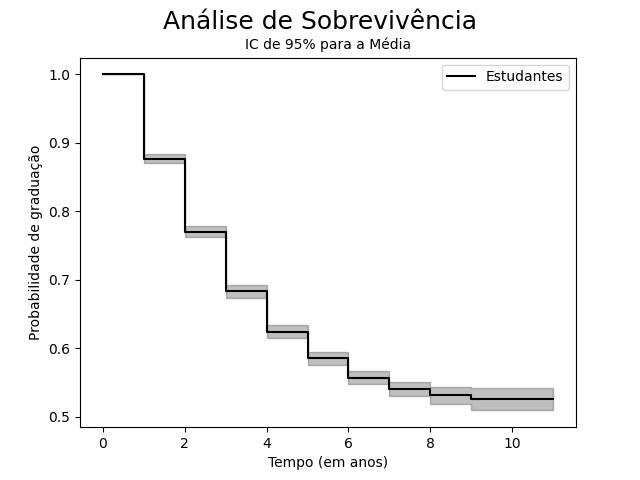
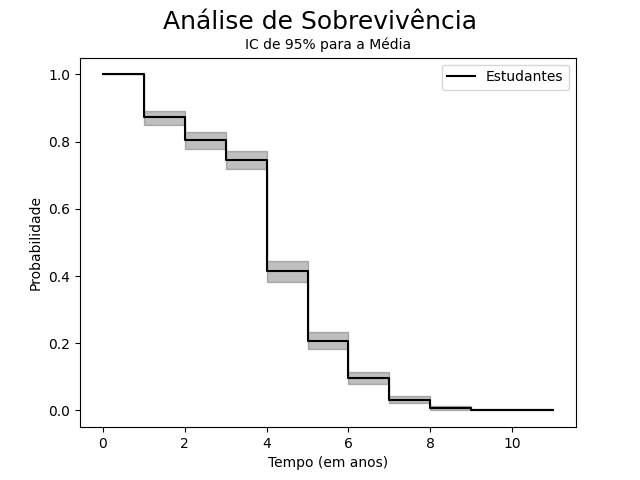
Alterações gráficos

diff --git a/tests/testKMF.py b/tests/testKMF.py
@@ -3,108 +3,113 @@ from lifelines import KaplanMeierFitter, CoxPHFitter, NelsonAalenFitter
 from lifelines.statistics import logrank_test
 from matplotlib import pyplot as plt
 
-
-times = [5, 6, 7, 2, 4, 4, 3, 6, 4, 7]
-event_g = [1, 1, 1, 0, 0, 0, 0, 1, 0, 1]
-event_e = [0, 0, 0, 1, 1, 1, 1, 0, 1, 0]
-
-# times = [5, 6, 7, 2, 4, 4, 3, 6, 4, 7, 4, 4]
-# event_g = [1, 1, 1, 0, 0, 0, 0, 1, 0, 1, 1, 1]
-# event_e = [0, 0, 0, 1, 1, 1, 1, 0, 1, 0, 0, 0]
+#total = 10
+#gradua = 4
+#evade = 6
 #
-# times = [5, 6, 7, 2, 4, 4, 3, 6, 4, 7, 8, 10]
-# event_g = [1, 1, 1, 0, 0, 0, 0, 1, 0, 1, 1, 1]
-# event_e = [0, 0, 0, 1, 1, 1, 1, 0, 1, 0, 0, 0]
+# times = [5, 6, 7, 2, 4, 4, 3, 5, 4, 7]
+# event_g = [0, 1, 1, 0, 0, 0, 0, 1, 0, 1]
+# event_e = [1, 0, 0, 1, 1, 1, 1, 0, 1, 0]
 #
-# times = [5, 6, 7, 2, 4, 4, 3, 6, 4, 7, 8, 10]
-# event_g = [1, 1, 1, 0, 0, 0, 0, 1, 0, 1, 0, 0]
-# event_e = [0, 0, 0, 1, 1, 1, 1, 0, 1, 0, 1, 1]
+# times = [5, 6, 7, 2, 4, 4, 3, 5, 4, 7, 4, 4]
+# event_g = [0, 1, 1, 0, 0, 0, 0, 1, 0, 1, 1, 1]
+# event_e = [1, 0, 0, 1, 1, 1, 1, 0, 1, 0, 0, 0]
+#
+# times = [5, 6, 7, 2, 4, 4, 3, 5, 4, 7, 8, 10]
+# event_g = [0, 1, 1, 0, 0, 0, 0, 1, 0, 1, 1, 1]
+# event_e = [1, 0, 0, 1, 1, 1, 1, 0, 1, 0, 0, 0]
 
-
-# kmf = KaplanMeierFitter()
-# kmf.fit(times, event_g)
-# kmf.plot_survival_function(ci_show=False)
-# plt.show()
-# kmf.fit(times, event_e)
-# kmf.plot_survival_function(ci_show=False)
-# plt.show()
-# kmf.plot_cumulative_density(ci_show=False)
-# plt.show()
-
-
-
-
-times = [5, 6, 7, 2, 4, 4, 3, 6, 4, 7]
-event_e = [0, 0, 0, 1, 1, 1, 1, 0, 1, 0]
-times1 = [1, 6, 5, 6, 1, 4, 3, 5, 2, 7]
-event_e1 = [1, 0, 1, 0, 1, 1, 1, 0, 1, 0]
+times = [5, 6, 7, 2, 4, 4, 3, 5, 4, 7, 8, 10]
+event_g = [0, 1, 1, 0, 0, 0, 0, 1, 0, 1, 0, 0]
+event_e = [1, 0, 0, 1, 1, 1, 1, 0, 1, 0, 1, 1]
 
 kmf = KaplanMeierFitter()
 kmf.fit(times, event_e)
 kmf.plot_survival_function(ci_show=False)
-# kmf.fit(times1, event_e1)
+plt.show()
+kmf.plot_cumulative_density(ci_show=False)
+plt.show()
+kmf.fit(times, event_g)
+kmf.plot_survival_function(ci_show=False)
+plt.show()
+kmf.plot_cumulative_density(ci_show=False)
+plt.show()
+
+
+
+
+#
+# times = [5, 6, 7, 2, 4, 4, 3, 6, 4, 7]
+# event_e = [0, 0, 0, 1, 1, 1, 1, 0, 1, 0]
+# times1 = [1, 6, 5, 6, 1, 4, 3, 5, 2, 7]
+# event_e1 = [1, 0, 1, 0, 1, 1, 1, 0, 1, 0]
+#
+# kmf = KaplanMeierFitter()
+# kmf.fit(times, event_e)
 # kmf.plot_survival_function(ci_show=False)
-
-plt.show()
-
-print(kmf.event_table)
-print("Quantidade de estudantes por ano")
-print(kmf.event_table.at_risk)
-print("Tempo médio de sobrevivencia")
-print(kmf.median_survival_time_)
-print(kmf.survival_function_)
-print("Probabilidade de evadir pelo tempo")
-print(kmf.cumulative_density_)
-print(kmf.predict([0, 4, 7]))
-print(kmf.confidence_interval_)
-print(kmf.conditional_time_to_event_)
-
-
-
-
-# print("cox")
-# # Using Cox Proportional Hazards model
-# cph = CoxPHFitter()   ## Instantiate the class to create a cph object
-# cph.fit(times, event_e)
-# cph.fit(times, event_e1)
-# cph.print_summary()    ## HAve a look at the significance of the features
-
-
-
-
-
-# HAZARD
-naf = NelsonAalenFitter()
-
-naf.fit(times, event_e)
-
-print(naf.cumulative_hazard_)
-naf.plot_cumulative_hazard()
-plt.show()
-
-
-
-
-
-
-
-
-
-# LOGRANK
-print("logrank")
-results = logrank_test(times, times1, event_e, event_e1)
-results.print_summary()
-print(results.p_value)
-
-
-
-
-
-
-
-
-
-
+# # kmf.fit(times1, event_e1)
+# # kmf.plot_survival_function(ci_show=False)
+#
+# plt.show()
+#
+# print(kmf.event_table)
+# print("Quantidade de estudantes por ano")
+# print(kmf.event_table.at_risk)
+# print("Tempo médio de sobrevivencia")
+# print(kmf.median_survival_time_)
+# print(kmf.survival_function_)
+# print("Probabilidade de evadir pelo tempo")
+# print(kmf.cumulative_density_)
+# print(kmf.predict([0, 4, 7]))
+# print(kmf.confidence_interval_)
+# print(kmf.conditional_time_to_event_)
+#
+#
+#
+#
+# # print("cox")
+# # # Using Cox Proportional Hazards model
+# # cph = CoxPHFitter()   ## Instantiate the class to create a cph object
+# # cph.fit(times, event_e)
+# # cph.fit(times, event_e1)
+# # cph.print_summary()    ## HAve a look at the significance of the features
+#
+#
+#
+#
+#
+# # HAZARD
+# naf = NelsonAalenFitter()
+#
+# naf.fit(times, event_e)
+#
+# print(naf.cumulative_hazard_)
+# naf.plot_cumulative_hazard()
+# plt.show()
+#
+#
+#
+#
+#
+#
+#
+#
+#
+# # LOGRANK
+# print("logrank")
+# results = logrank_test(times, times1, event_e, event_e1)
+# results.print_summary()
+# print(results.p_value)
+#
+#
+#
+#
+#
+#
+#
+#
+#
+#
 
 
 

diff --git a/simulation.py b/simulation.py
@@ -13,17 +13,34 @@ def sobrevivencia(time, event_observed, label, title):
         kmf.fit(time[i], event_observed[i], label=label[i])
         # kmf.plot_survival_function(color=color[i])
         kmf.plot_survival_function(linestyle=linestyles[i], color="black")
-        kmf.event_table.to_csv(f"docs/event_table{i}.csv")
+        kmf.event_table.to_csv(f"docs/event_table{title}.csv")
 
 
     plt.xlabel('Tempo (em anos)')
-    plt.ylabel('Probabilidade de graduação')
+    plt.ylabel('Probabilidade')
     plt.suptitle(f"{title}", fontsize=18)
     plt.title("IC de 95% para a Média", fontsize=10)
     plt.savefig(f"imgs/plot{title}.png")
     plt.show()
     # kmf.plot_cumulative_density(ci_show=False)
     # plt.show()
+
+
+def sobrevivencia_densidade(time, event_observed, label, title):
+    kmf = KaplanMeierFitter()
+
+    linestyles = ['-', '--', ':', '-.']
+    for i in range(len(time)):
+        kmf.fit(time[i], event_observed[i], label=label[i])
+        # kmf.plot_survival_function(color=color[i])
+        kmf.plot_cumulative_density(linestyle=linestyles[i], color="black", ci_show=False)
+
+
+    plt.xlabel('Tempo (em anos)')
+    plt.ylabel('Probabilidade')
+    plt.suptitle(f"{title}", fontsize=18)
+    plt.savefig(f"imgs/plot{title}.png")
+    plt.show()
 
 
 
@@ -41,11 +58,16 @@ def Simu(quantAlunos, matriz):
     r = 0
     t = 0
     time = []
+    event_evadido = []
+    event_graduado = []
     event = []
     tempo_ate_retido = []
     tempo_ate_trancado = []
     tempo_ate_evadido = []
     tempo_ate_graduado = []
+
+
+    tempo_test = []
 
 
     for i in range(quantAlunos):
@@ -59,11 +81,15 @@ def Simu(quantAlunos, matriz):
             tempo_ate_evadido.append(len(arr) - 1)
             time.append(len(arr) - 1)
             event.append(1)
+            event_graduado.append(0)
+            event_evadido.append(1)
         else:  # graduado
             g += 1
             tempo_ate_graduado.append(len(arr) - 1)
             time.append(len(arr) - 1)
-            event.append(0)
+            event.append(1)
+            event_graduado.append(1)
+            event_evadido.append(0)
 
         # Se ficou Trancado em algum dos estados
         i = 1
@@ -83,16 +109,15 @@ def Simu(quantAlunos, matriz):
                 break
             count += 1
 
-    prob_and_temp("Retido", r, tempo_ate_retido, quantAlunos)
-    prob_and_temp("Trancado", t, tempo_ate_trancado, quantAlunos)
-    prob_and_temp("Evadido", e, tempo_ate_evadido, quantAlunos)
-    prob_and_temp("Graduado", g, tempo_ate_graduado, quantAlunos)
+    # prob_and_temp("Retido", r, tempo_ate_retido, quantAlunos)
+    # prob_and_temp("Trancado", t, tempo_ate_trancado, quantAlunos)
+    # prob_and_temp("Evadido", e, tempo_ate_evadido, quantAlunos)
+    # prob_and_temp("Graduado", g, tempo_ate_graduado, quantAlunos)
 
-    return time, event
+    return time, event, event_evadido, event_graduado
 
 
-
-quantAlunos = 10000
+quantAlunos = 1000
 
 
 # Simulação por Gênero
@@ -239,7 +264,14 @@ quantAlunos = 10000
 
 
 # Simulação Geral
-time, event = Simu(quantAlunos, 'matrix/matrixPadrao.csv')
+time, event, event_evadido, event_graduado = Simu(quantAlunos, 'matrix/matrixBoumiAlterado.csv')
 
-sobrevivencia([time], [event], ['Estudantes'], "Análise de Sobrevivência")
+#Esse primeiro aqui
+sobrevivencia([time, time, time], [event_evadido, event_graduado, event], ['evadido','graduado','todos'], "Análise de Sobrevivência1")
+sobrevivencia([time], [event_evadido], ['Estudantes'], "Análise de Sobrevivência1")
+sobrevivencia([time], [event_graduado], ['Estudantes'], "Análise de Sobrevivência1")
+sobrevivencia([time], [event], ['Estudantes'], "Análise de Sobrevivência2")
+sobrevivencia_densidade([time, time], [event_evadido, event_graduado], ['Evadido', 'Graduado'], "Teste")
 
+# print(event_graduado)
+# print(event_evadido)
